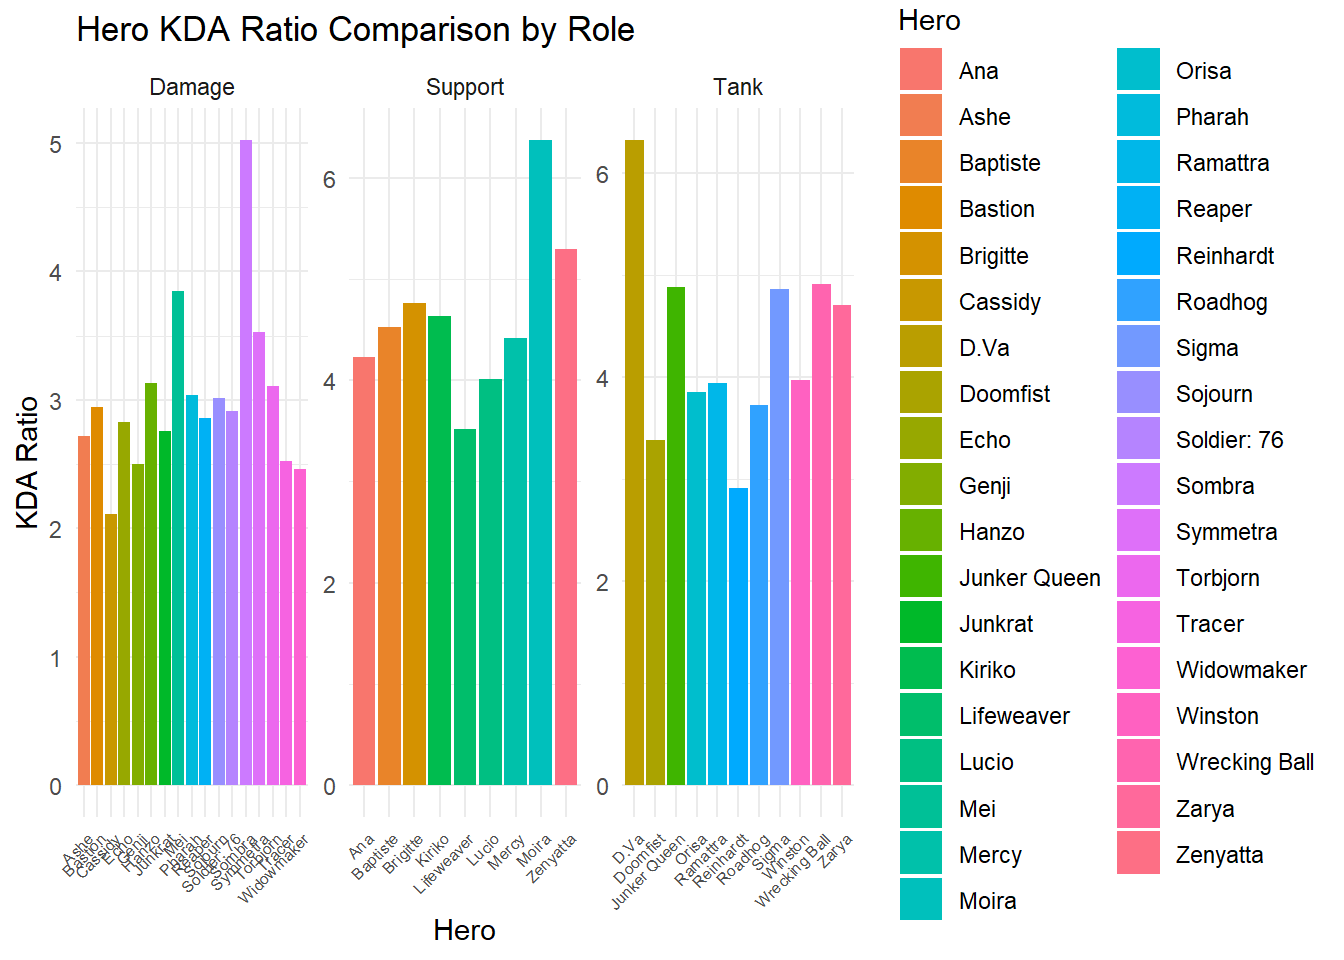
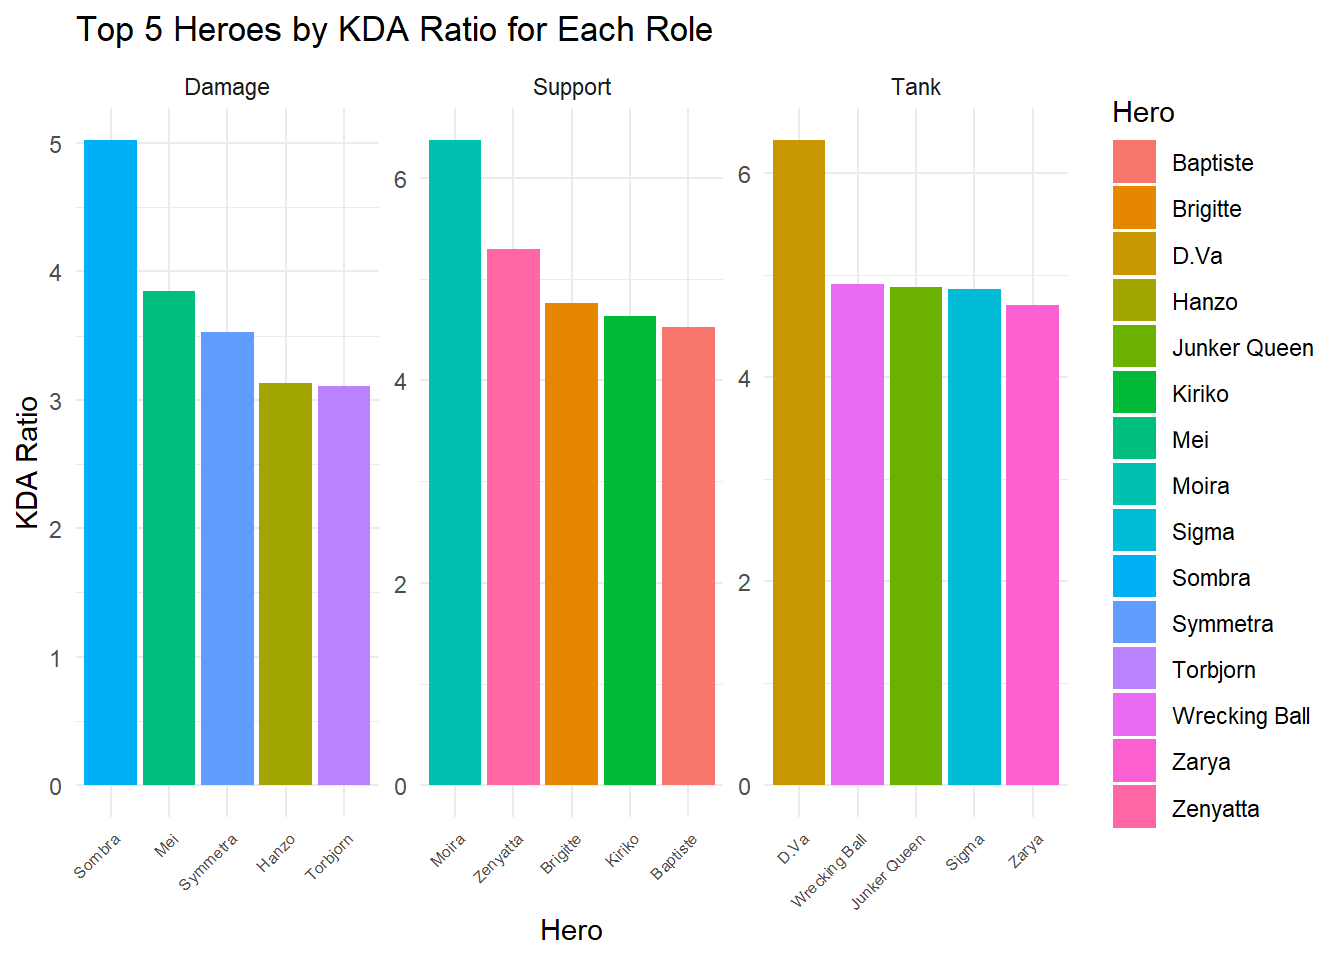
second

diff --git a/_site/KDA_Ratio.html b/_site/KDA_Ratio.html
@@ -20,40 +20,6 @@ ul.task-list li input[type="checkbox"] {
   margin: 0 0.8em 0.2em -1em; /* quarto-specific, see https://github.com/quarto-dev/quarto-cli/issues/4556 */ 
   vertical-align: middle;
 }
-/* CSS for syntax highlighting */
-pre > code.sourceCode { white-space: pre; position: relative; }
-pre > code.sourceCode > span { line-height: 1.25; }
-pre > code.sourceCode > span:empty { height: 1.2em; }
-.sourceCode { overflow: visible; }
-code.sourceCode > span { color: inherit; text-decoration: inherit; }
-div.sourceCode { margin: 1em 0; }
-pre.sourceCode { margin: 0; }
-@media screen {
-div.sourceCode { overflow: auto; }
-}
-@media print {
-pre > code.sourceCode { white-space: pre-wrap; }
-pre > code.sourceCode > span { text-indent: -5em; padding-left: 5em; }
-}
-pre.numberSource code
-  { counter-reset: source-line 0; }
-pre.numberSource code > span
-  { position: relative; left: -4em; counter-increment: source-line; }
-pre.numberSource code > span > a:first-child::before
-  { content: counter(source-line);
-    position: relative; left: -1em; text-align: right; vertical-align: baseline;
-    border: none; display: inline-block;
-    -webkit-touch-callout: none; -webkit-user-select: none;
-    -khtml-user-select: none; -moz-user-select: none;
-    -ms-user-select: none; user-select: none;
-    padding: 0 4px; width: 4em;
-  }
-pre.numberSource { margin-left: 3em;  padding-left: 4px; }
-div.sourceCode
-  {   }
-@media screen {
-pre > code.sourceCode > span > a:first-child::before { text-decoration: underline; }
-}
 </style>
 
 
@@ -131,12 +97,16 @@ pre > code.sourceCode > span > a:first-child::before { text-decoration: underlin
 <span class="menu-text">Data</span></a>
   </li>  
   <li class="nav-item">
-    <a class="nav-link" href="./about.html"> 
-<span class="menu-text">About</span></a>
+    <a class="nav-link" href="./owl.html"> 
+<span class="menu-text">OWL Comparison</span></a>
   </li>  
   <li class="nav-item">
     <a class="nav-link" href="./sources.html"> 
 <span class="menu-text">Sources</span></a>
+  </li>  
+  <li class="nav-item">
+    <a class="nav-link" href="./about.html"> 
+<span class="menu-text">About</span></a>
   </li>  
 </ul>
           </div> <!-- /navcollapse -->
@@ -175,30 +145,6 @@ pre > code.sourceCode > span > a:first-child::before { text-decoration: underlin
 
 
 <div class="cell">
-<div class="sourceCode cell-code" id="cb1"><pre class="sourceCode r code-with-copy"><code class="sourceCode r"><span id="cb1-1"><a href="#cb1-1" aria-hidden="true" tabindex="-1"></a>data <span class="ot">&lt;-</span> <span class="fu">read_csv</span>(<span class="st">"data/ow_data.csv"</span>)</span></code><button title="Copy to Clipboard" class="code-copy-button"><i class="bi"></i></button></pre></div>
-<div class="cell-output cell-output-stderr">
-<pre><code>Rows: 296 Columns: 133
-── Column specification ────────────────────────────────────────────────────────
-Delimiter: ","
-chr   (3): Hero, Skill Tier, Role
-dbl (130): KDA Ratio, Pick Rate, %, Win Rate, %, Eliminations / 10min, Objec...
-
-ℹ Use `spec()` to retrieve the full column specification for this data.
-ℹ Specify the column types or set `show_col_types = FALSE` to quiet this message.</code></pre>
-</div>
-<div class="sourceCode cell-code" id="cb3"><pre class="sourceCode r code-with-copy"><code class="sourceCode r"><span id="cb3-1"><a href="#cb3-1" aria-hidden="true" tabindex="-1"></a>filtered_data <span class="ot">&lt;-</span> data <span class="sc">%&gt;%</span></span>
-<span id="cb3-2"><a href="#cb3-2" aria-hidden="true" tabindex="-1"></a>  <span class="fu">filter</span>(<span class="st">`</span><span class="at">Skill Tier</span><span class="st">`</span> <span class="sc">==</span> <span class="st">"All"</span>) <span class="sc">%&gt;%</span></span>
-<span id="cb3-3"><a href="#cb3-3" aria-hidden="true" tabindex="-1"></a>  <span class="fu">select</span>(Hero, Role, <span class="st">`</span><span class="at">KDA Ratio</span><span class="st">`</span>, <span class="st">`</span><span class="at">Pick Rate, %</span><span class="st">`</span>, <span class="st">`</span><span class="at">Win Rate, %</span><span class="st">`</span>)</span>
-<span id="cb3-4"><a href="#cb3-4" aria-hidden="true" tabindex="-1"></a></span>
-<span id="cb3-5"><a href="#cb3-5" aria-hidden="true" tabindex="-1"></a><span class="co"># Create separate bar charts for each role</span></span>
-<span id="cb3-6"><a href="#cb3-6" aria-hidden="true" tabindex="-1"></a><span class="fu">ggplot</span>(filtered_data, <span class="fu">aes</span>(<span class="at">x =</span> Hero, <span class="at">y =</span> <span class="st">`</span><span class="at">KDA Ratio</span><span class="st">`</span>, <span class="at">fill =</span> Hero)) <span class="sc">+</span></span>
-<span id="cb3-7"><a href="#cb3-7" aria-hidden="true" tabindex="-1"></a>  <span class="fu">geom_bar</span>(<span class="at">stat =</span> <span class="st">"identity"</span>) <span class="sc">+</span></span>
-<span id="cb3-8"><a href="#cb3-8" aria-hidden="true" tabindex="-1"></a>  <span class="fu">facet_wrap</span>(<span class="sc">~</span> Role, <span class="at">scales =</span> <span class="st">"free"</span>) <span class="sc">+</span>  <span class="co"># Create separate charts for each role</span></span>
-<span id="cb3-9"><a href="#cb3-9" aria-hidden="true" tabindex="-1"></a>  <span class="fu">labs</span>(<span class="at">title =</span> <span class="st">"Hero KDA Ratio Comparison by Role"</span>,</span>
-<span id="cb3-10"><a href="#cb3-10" aria-hidden="true" tabindex="-1"></a>       <span class="at">x =</span> <span class="st">"Hero"</span>,</span>
-<span id="cb3-11"><a href="#cb3-11" aria-hidden="true" tabindex="-1"></a>       <span class="at">y =</span> <span class="st">"KDA Ratio"</span>) <span class="sc">+</span></span>
-<span id="cb3-12"><a href="#cb3-12" aria-hidden="true" tabindex="-1"></a>  <span class="fu">theme_minimal</span>() <span class="sc">+</span></span>
-<span id="cb3-13"><a href="#cb3-13" aria-hidden="true" tabindex="-1"></a>  <span class="fu">theme</span>(<span class="at">axis.text.x =</span> <span class="fu">element_text</span>(<span class="at">angle =</span> <span class="dv">45</span>, <span class="at">hjust =</span> <span class="dv">1</span>, <span class="at">size =</span> <span class="dv">6</span>))</span></code><button title="Copy to Clipboard" class="code-copy-button"><i class="bi"></i></button></pre></div>
 <div class="cell-output-display">
 <div>
 <figure class="figure">
@@ -208,44 +154,19 @@ dbl (130): KDA Ratio, Pick Rate, %, Win Rate, %, Eliminations / 10min, Objec...
 </div>
 </div>
 <div class="cell">
-<div class="sourceCode cell-code" id="cb4"><pre class="sourceCode r code-with-copy"><code class="sourceCode r"><span id="cb4-1"><a href="#cb4-1" aria-hidden="true" tabindex="-1"></a>hero_groups <span class="ot">&lt;-</span> data <span class="sc">|&gt;</span></span>
-<span id="cb4-2"><a href="#cb4-2" aria-hidden="true" tabindex="-1"></a>  <span class="fu">group_by</span>(Hero, <span class="st">`</span><span class="at">Skill Tier</span><span class="st">`</span>) <span class="sc">|&gt;</span></span>
-<span id="cb4-3"><a href="#cb4-3" aria-hidden="true" tabindex="-1"></a>  <span class="fu">summarise</span>(</span>
-<span id="cb4-4"><a href="#cb4-4" aria-hidden="true" tabindex="-1"></a>    <span class="at">mean_KDA =</span> <span class="fu">mean</span>(<span class="st">`</span><span class="at">KDA Ratio</span><span class="st">`</span>),</span>
-<span id="cb4-5"><a href="#cb4-5" aria-hidden="true" tabindex="-1"></a>    <span class="at">mean_Pick_Rate =</span> <span class="fu">mean</span>(<span class="st">`</span><span class="at">Pick Rate, %</span><span class="st">`</span>),</span>
-<span id="cb4-6"><a href="#cb4-6" aria-hidden="true" tabindex="-1"></a>    <span class="at">mean_Win_Rate =</span> <span class="fu">mean</span>(<span class="st">`</span><span class="at">Win Rate, %</span><span class="st">`</span>),</span>
-<span id="cb4-7"><a href="#cb4-7" aria-hidden="true" tabindex="-1"></a>    <span class="at">mean_Eliminations =</span> <span class="fu">mean</span>(<span class="st">`</span><span class="at">Eliminations / 10min</span><span class="st">`</span>),</span>
-<span id="cb4-8"><a href="#cb4-8" aria-hidden="true" tabindex="-1"></a>    <span class="at">mean_Objective_Kills =</span> <span class="fu">mean</span>(<span class="st">`</span><span class="at">Objective Kills / 10min</span><span class="st">`</span>)</span>
-<span id="cb4-9"><a href="#cb4-9" aria-hidden="true" tabindex="-1"></a>  ) <span class="sc">|&gt;</span></span>
-<span id="cb4-10"><a href="#cb4-10" aria-hidden="true" tabindex="-1"></a>  <span class="fu">ungroup</span>()</span></code><button title="Copy to Clipboard" class="code-copy-button"><i class="bi"></i></button></pre></div>
-<div class="cell-output cell-output-stderr">
-<pre><code>`summarise()` has grouped output by 'Hero'. You can override using the
-`.groups` argument.</code></pre>
-</div>
-<div class="sourceCode cell-code" id="cb6"><pre class="sourceCode r code-with-copy"><code class="sourceCode r"><span id="cb6-1"><a href="#cb6-1" aria-hidden="true" tabindex="-1"></a><span class="co"># Define the colors for each skill tier</span></span>
-<span id="cb6-2"><a href="#cb6-2" aria-hidden="true" tabindex="-1"></a>tier_colors <span class="ot">&lt;-</span> <span class="fu">c</span>(<span class="st">"All"</span> <span class="ot">=</span> <span class="st">"#377EB8"</span>, <span class="st">"Bronze"</span> <span class="ot">=</span> <span class="st">"#4DAF4A"</span>, <span class="st">"Silver"</span> <span class="ot">=</span> <span class="st">"#984EA3"</span>,</span>
-<span id="cb6-3"><a href="#cb6-3" aria-hidden="true" tabindex="-1"></a>                 <span class="st">"Gold"</span> <span class="ot">=</span> <span class="st">"#FF7F00"</span>, <span class="st">"Platinum"</span> <span class="ot">=</span> <span class="st">"#FFFF33"</span>, <span class="st">"Diamond"</span> <span class="ot">=</span> <span class="st">"#A65628"</span>,</span>
-<span id="cb6-4"><a href="#cb6-4" aria-hidden="true" tabindex="-1"></a>                 <span class="st">"Master"</span> <span class="ot">=</span> <span class="st">"#F781BF"</span>, <span class="st">"Grandmaster"</span> <span class="ot">=</span> <span class="st">"#999999"</span>)</span>
-<span id="cb6-5"><a href="#cb6-5" aria-hidden="true" tabindex="-1"></a><span class="co"># Create the grouped bar chart</span></span>
-<span id="cb6-6"><a href="#cb6-6" aria-hidden="true" tabindex="-1"></a><span class="fu">ggplot</span>(hero_groups, <span class="fu">aes</span>(<span class="at">x =</span> Hero, <span class="at">fill =</span> <span class="st">`</span><span class="at">Skill Tier</span><span class="st">`</span>)) <span class="sc">+</span></span>
-<span id="cb6-7"><a href="#cb6-7" aria-hidden="true" tabindex="-1"></a>  <span class="fu">geom_bar</span>(<span class="fu">aes</span>(<span class="at">y =</span> mean_KDA), <span class="at">position =</span> <span class="st">"dodge"</span>, <span class="at">stat =</span> <span class="st">"identity"</span>) <span class="sc">+</span></span>
-<span id="cb6-8"><a href="#cb6-8" aria-hidden="true" tabindex="-1"></a>  <span class="fu">geom_bar</span>(<span class="fu">aes</span>(<span class="at">y =</span> mean_Pick_Rate <span class="sc">/</span> <span class="dv">10</span>), <span class="at">position =</span> <span class="st">"dodge"</span>, <span class="at">stat =</span> <span class="st">"identity"</span>) <span class="sc">+</span></span>
-<span id="cb6-9"><a href="#cb6-9" aria-hidden="true" tabindex="-1"></a>  <span class="fu">geom_bar</span>(<span class="fu">aes</span>(<span class="at">y =</span> mean_Win_Rate <span class="sc">/</span> <span class="dv">10</span>), <span class="at">position =</span> <span class="st">"dodge"</span>, <span class="at">stat =</span> <span class="st">"identity"</span>) <span class="sc">+</span></span>
-<span id="cb6-10"><a href="#cb6-10" aria-hidden="true" tabindex="-1"></a>  <span class="fu">geom_bar</span>(<span class="fu">aes</span>(<span class="at">y =</span> mean_Eliminations <span class="sc">/</span> <span class="dv">10</span>), <span class="at">position =</span> <span class="st">"dodge"</span>, <span class="at">stat =</span> <span class="st">"identity"</span>) <span class="sc">+</span></span>
-<span id="cb6-11"><a href="#cb6-11" aria-hidden="true" tabindex="-1"></a>  <span class="fu">geom_bar</span>(<span class="fu">aes</span>(<span class="at">y =</span> mean_Objective_Kills <span class="sc">/</span> <span class="dv">10</span>), <span class="at">position =</span> <span class="st">"dodge"</span>, <span class="at">stat =</span> <span class="st">"identity"</span>) <span class="sc">+</span></span>
-<span id="cb6-12"><a href="#cb6-12" aria-hidden="true" tabindex="-1"></a>  <span class="fu">scale_fill_manual</span>(<span class="at">values =</span> tier_colors) <span class="sc">+</span></span>
-<span id="cb6-13"><a href="#cb6-13" aria-hidden="true" tabindex="-1"></a>  <span class="fu">labs</span>(<span class="at">title =</span> <span class="st">"Hero Performance by Skill Tier"</span>,</span>
-<span id="cb6-14"><a href="#cb6-14" aria-hidden="true" tabindex="-1"></a>       <span class="at">y =</span> <span class="st">"Average Value"</span>,</span>
-<span id="cb6-15"><a href="#cb6-15" aria-hidden="true" tabindex="-1"></a>       <span class="at">fill =</span> <span class="st">"Skill Tier"</span>,</span>
-<span id="cb6-16"><a href="#cb6-16" aria-hidden="true" tabindex="-1"></a>       <span class="at">caption =</span> <span class="st">"Data Source: YourSource"</span>) <span class="sc">+</span></span>
-<span id="cb6-17"><a href="#cb6-17" aria-hidden="true" tabindex="-1"></a>  <span class="fu">theme_minimal</span>() <span class="sc">+</span></span>
-<span id="cb6-18"><a href="#cb6-18" aria-hidden="true" tabindex="-1"></a>  <span class="fu">theme</span>(<span class="at">legend.position =</span> <span class="st">"top"</span>,</span>
-<span id="cb6-19"><a href="#cb6-19" aria-hidden="true" tabindex="-1"></a>        <span class="at">plot.title =</span> <span class="fu">element_text</span>(<span class="at">hjust =</span> <span class="fl">0.5</span>),</span>
-<span id="cb6-20"><a href="#cb6-20" aria-hidden="true" tabindex="-1"></a>        <span class="at">axis.text.x =</span> <span class="fu">element_text</span>(<span class="at">angle =</span> <span class="dv">45</span>, <span class="at">hjust =</span> <span class="dv">1</span>))</span></code><button title="Copy to Clipboard" class="code-copy-button"><i class="bi"></i></button></pre></div>
 <div class="cell-output-display">
 <div>
 <figure class="figure">
 <p><img src="KDA_Ratio_files/figure-html/unnamed-chunk-3-1.png" class="img-fluid figure-img" width="672"></p>
+</figure>
+</div>
+</div>
+</div>
+<div class="cell">
+<div class="cell-output-display">
+<div>
+<figure class="figure">
+<p><img src="KDA_Ratio_files/figure-html/unnamed-chunk-4-1.png" class="img-fluid figure-img" width="672"></p>
 </figure>
 </div>
 </div>

diff --git a/_site/sources.html b/_site/sources.html
@@ -97,12 +97,16 @@ ul.task-list li input[type="checkbox"] {
 <span class="menu-text">Data</span></a>
   </li>  
   <li class="nav-item">
-    <a class="nav-link" href="./about.html"> 
-<span class="menu-text">About</span></a>
+    <a class="nav-link" href="./owl.html"> 
+<span class="menu-text">OWL Comparison</span></a>
   </li>  
   <li class="nav-item">
     <a class="nav-link active" href="./sources.html" aria-current="page"> 
 <span class="menu-text">Sources</span></a>
+  </li>  
+  <li class="nav-item">
+    <a class="nav-link" href="./about.html"> 
+<span class="menu-text">About</span></a>
   </li>  
 </ul>
           </div> <!-- /navcollapse -->
@@ -141,6 +145,7 @@ ul.task-list li input[type="checkbox"] {
 
 
 <p>The data used for this project came from Kaggle. The user that input this data is a data analyst that works for team 4 at Activision Blizzard (OW2 Team). They had submitted this data after the conclusion of season 4 making the data the most accurate data that can be found wiithout working direcctly for team 4.</p>
+<p>The meta compositions featured from OWL in this project were collected from the OWL Midseason Madness Tournament which took place at the end of Season 4 of OW2.</p>
 
 
 

diff --git a/_site/index.html b/_site/index.html
@@ -97,12 +97,16 @@ ul.task-list li input[type="checkbox"] {
 <span class="menu-text">Data</span></a>
   </li>  
   <li class="nav-item">
-    <a class="nav-link" href="./about.html"> 
-<span class="menu-text">About</span></a>
+    <a class="nav-link" href="./owl.html"> 
+<span class="menu-text">OWL Comparison</span></a>
   </li>  
   <li class="nav-item">
     <a class="nav-link" href="./sources.html"> 
 <span class="menu-text">Sources</span></a>
+  </li>  
+  <li class="nav-item">
+    <a class="nav-link" href="./about.html"> 
+<span class="menu-text">About</span></a>
   </li>  
 </ul>
           </div> <!-- /navcollapse -->

diff --git a/_site/owl.html b/_site/owl.html
@@ -144,6 +144,9 @@ ul.task-list li input[type="checkbox"] {
 </header>
 
 
+<p>There were two main compositions used in the Overwatch League during season 4.</p>
+<p>The first composition was a dive composition that included Winston as the Tank, Sombra and Tracer as the Damage, and the support line was a mix of either Brigitte and Ana or Kiriko and Ana.</p>
+<p>The second team composition was a rush composition that included Rammatra as the Tank, a mix of Mei and Sombra or Mei and Sojourn as the Damage line, and a mix of Ana Brigitte or Ana Lucio for the Support Line.</p>
 
 
 
